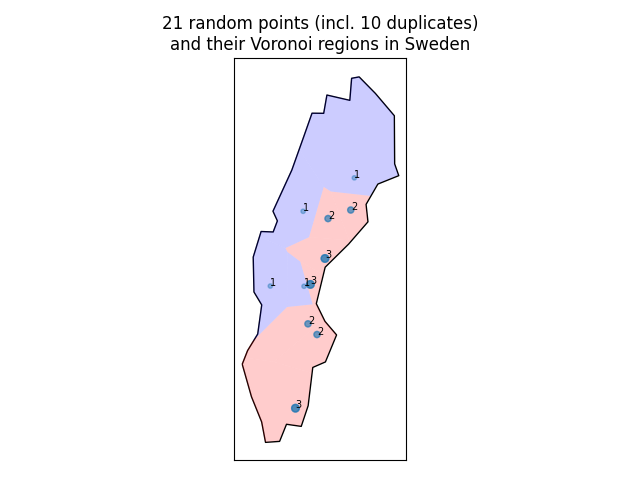
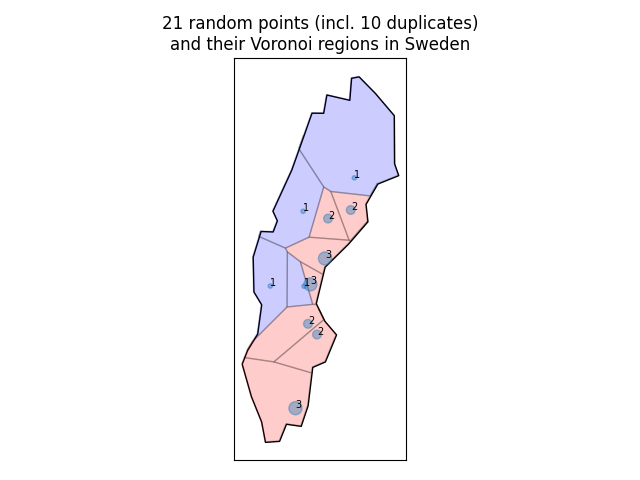
adapted duplicate_points example for new version

diff --git a/geovoronoi/_voronoi.py b/geovoronoi/_voronoi.py
@@ -133,46 +133,46 @@ def region_polygons_from_voronoi(vor, geom, return_point_assignments=False):
         else:
             p_vert_indices = set()
             p_vert_farpoints = set()
-            i_pt = pt_indices[0]  # only consider one point, not a duplicate
-            enclosing_ridge_pts_mask = (vor.ridge_points[:, 0] == i_pt) | (vor.ridge_points[:, 1] == i_pt)
-            for pointidx, simplex in zip(vor.ridge_points[enclosing_ridge_pts_mask],
-                                         ridge_vert[enclosing_ridge_pts_mask]):
+            for i_pt in pt_indices:     # also consider duplicates
+                enclosing_ridge_pts_mask = (vor.ridge_points[:, 0] == i_pt) | (vor.ridge_points[:, 1] == i_pt)
+                for pointidx, simplex in zip(vor.ridge_points[enclosing_ridge_pts_mask],
+                                             ridge_vert[enclosing_ridge_pts_mask]):
 
-                region_neighbor_pts[i_reg].update([x for x in pointidx if x != i_pt])
+                    region_neighbor_pts[i_reg].update([x for x in pointidx if x != i_pt])
 
-                if np.all(simplex >= 0):   # both vertices of the ridge are finite points
-                    p_vert_indices.update(simplex)
-                else:
-                    # "loose ridge": contains infinite Voronoi vertex
-                    # we calculate the far point, i.e. the point of intersection with a surrounding polygon boundary
-                    i = simplex[simplex >= 0][0]  # finite end Voronoi vertex
-                    finite_pt = vor.vertices[i]
-                    p_vert_indices.add(i)
+                    if np.all(simplex >= 0):   # both vertices of the ridge are finite points
+                        p_vert_indices.update(simplex)
+                    else:
+                        # "loose ridge": contains infinite Voronoi vertex
+                        # we calculate the far point, i.e. the point of intersection with a surrounding polygon boundary
+                        i = simplex[simplex >= 0][0]  # finite end Voronoi vertex
+                        finite_pt = vor.vertices[i]
+                        p_vert_indices.add(i)
 
-                    # only add a far point if the finite end is not outside the bounding box already
-                    if geom_bb.contains(asPoint(finite_pt)):
-                        t = vor.points[pointidx[1]] - vor.points[pointidx[0]]  # tangent
-                        t /= np.linalg.norm(t)
-                        n = np.array([-t[1], t[0]])  # normal
+                        # only add a far point if the finite end is not outside the bounding box already
+                        if geom_bb.contains(asPoint(finite_pt)):
+                            t = vor.points[pointidx[1]] - vor.points[pointidx[0]]  # tangent
+                            t /= np.linalg.norm(t)
+                            n = np.array([-t[1], t[0]])  # normal
 
-                        midpoint = vor.points[pointidx].mean(axis=0)
-                        direction = np.sign(np.dot(midpoint - center, n)) * n
+                            midpoint = vor.points[pointidx].mean(axis=0)
+                            direction = np.sign(np.dot(midpoint - center, n)) * n
 
-                        isects = []
-                        for i_ext_coord in range(len(geom_bb.exterior.coords) - 1):
-                            isect = line_segment_intersection(midpoint, direction,
-                                                              np.array(geom_bb.exterior.coords[i_ext_coord]),
-                                                              np.array(geom_bb.exterior.coords[i_ext_coord+1]))
-                            if isect is not None:
-                                isects.append(isect)
+                            isects = []
+                            for i_ext_coord in range(len(geom_bb.exterior.coords) - 1):
+                                isect = line_segment_intersection(midpoint, direction,
+                                                                  np.array(geom_bb.exterior.coords[i_ext_coord]),
+                                                                  np.array(geom_bb.exterior.coords[i_ext_coord+1]))
+                                if isect is not None:
+                                    isects.append(isect)
 
-                        if len(isects) == 0:
-                            raise RuntimeError('far point must intersect with surrounding geometry from `geom`')
-                        elif len(isects) == 1:
-                            p_vert_farpoints.add(tuple(isects[0]))
-                        else:
-                            closest_isect_idx = np.argmin(np.linalg.norm(midpoint - isects, axis=1))
-                            p_vert_farpoints.add(tuple(isects[closest_isect_idx]))
+                            if len(isects) == 0:
+                                raise RuntimeError('far point must intersect with surrounding geometry from `geom`')
+                            elif len(isects) == 1:
+                                p_vert_farpoints.add(tuple(isects[0]))
+                            else:
+                                closest_isect_idx = np.argmin(np.linalg.norm(midpoint - isects, axis=1))
+                                p_vert_farpoints.add(tuple(isects[closest_isect_idx]))
 
             # create the Voronoi region polygon as convex hull of the ridge vertices and far points (Voronoi regions
             # are convex)

diff --git a/examples/duplicate_points.py b/examples/duplicate_points.py
@@ -4,7 +4,7 @@ Example script to show how to handle duplicate points for which Voronoi regions 
 Duplicate points, i.e. points with exactly the same coordinates will belong to the same Voronoi region.
 
 Author: Markus Konrad <markus.konrad@wzb.eu>
-March 2018
+January 2020
 """
 
 
@@ -22,6 +22,9 @@ logging.basicConfig(level=logging.INFO)
 geovoronoi_log = logging.getLogger('geovoronoi')
 geovoronoi_log.setLevel(logging.INFO)
 geovoronoi_log.propagate = True
+
+
+#%%
 
 N_POINTS = 20
 N_DUPL = 10
@@ -61,11 +64,8 @@ coords = np.concatenate((coords, coords[rand_dupl_ind]))
 
 print('duplicated %d random points -> we have %d coordinates now' % (N_DUPL, len(coords)))
 
-# if we didn't know in advance how many duplicates we have (and which points they are), we could find out like this:
-# unique_coords, unique_ind, dupl_counts = np.unique(coords, axis=0, return_index=True, return_counts=True)
-# n_dupl = len(coords) - len(unique_ind)
-# n_dupl
-# >>> 10
+
+#%%
 
 #
 # calculate the Voronoi regions, cut them with the geographic area shape and assign the points to them
@@ -73,44 +73,46 @@ print('duplicated %d random points -> we have %d coordinates now' % (N_DUPL, len
 # the duplicate coordinates will belong to the same voronoi region
 #
 
-poly_shapes, pts, poly_to_pt_assignments = voronoi_regions_from_coords(coords, area_shape,
-                                                                       accept_n_coord_duplicates=N_DUPL)
+poly_shapes, poly_to_pt_assignments = voronoi_regions_from_coords(coords, area_shape)
 
 # poly_to_pt_assignments is a nested list because a voronoi region might contain several (duplicate) points
 
 print('\n\nvoronoi region to points assignments:')
-for i_poly, pt_indices in enumerate(poly_to_pt_assignments):
+for i_poly, pt_indices in poly_to_pt_assignments.items():
     print('> voronoi region', i_poly, '-> points', str(pt_indices))
 
 print('\n\npoints to voronoi region assignments:')
-pts_to_poly_assignments = np.array(get_points_to_poly_assignments(poly_to_pt_assignments))
-for i_pt, i_poly in enumerate(pts_to_poly_assignments):
+pts_to_poly_assignments = get_points_to_poly_assignments(poly_to_pt_assignments)
+for i_pt, i_poly in pts_to_poly_assignments.items():
     print('> point ', i_pt, '-> voronoi region', i_poly)
 
+
+#%%
 
 #
 # plotting
 #
 
-# make point labels: counts of duplicates per points
-count_per_pt = [sum(pts_to_poly_assignments == i_poly) for i_poly in pts_to_poly_assignments]
-pt_labels = list(map(str, count_per_pt))
+# make point labels: counts of duplicate assignments per points
+count_per_pt = {pt_indices[0]: len(pt_indices) for pt_indices in poly_to_pt_assignments.values()}
+pt_labels = list(map(str, count_per_pt.values()))
+distinct_pt_coords = coords[np.asarray(list(count_per_pt.keys()))]
 
 # highlight voronoi regions with point duplicates
-count_per_poly = np.array(list(map(len, poly_to_pt_assignments)))
-vor_colors = np.repeat('blue', len(poly_shapes))   # default color
-vor_colors[count_per_poly > 1] = 'red'             # hightlight color
+vor_colors = {i_poly: 'red' if len(pt_indices) > 1 else 'blue'
+              for i_poly, pt_indices in poly_to_pt_assignments.items()}
 
 fig, ax = subplot_for_map()
 
-plot_voronoi_polys_with_points_in_area(ax, area_shape, poly_shapes, coords,
+plot_voronoi_polys_with_points_in_area(ax, area_shape, poly_shapes, distinct_pt_coords,
                                        plot_voronoi_opts={'alpha': 0.2},
                                        plot_points_opts={'alpha': 0.4},
-                                       voronoi_color=list(vor_colors),
+                                       voronoi_color=vor_colors,
+                                       voronoi_edgecolor='black',
                                        point_labels=pt_labels,
-                                       points_markersize=np.array(count_per_pt)*10)
+                                       points_markersize=np.square(np.array(list(count_per_pt.values())))*10)
 
-ax.set_title('%d random points (incl. %d duplicates)\nand their Voronoi regions in %s' % (len(pts), N_DUPL, COUNTRY))
+ax.set_title('%d random points (incl. %d duplicates)\nand their Voronoi regions in %s' % (len(coords), N_DUPL, COUNTRY))
 
 plt.tight_layout()
 plt.savefig('duplicate_points.png')
